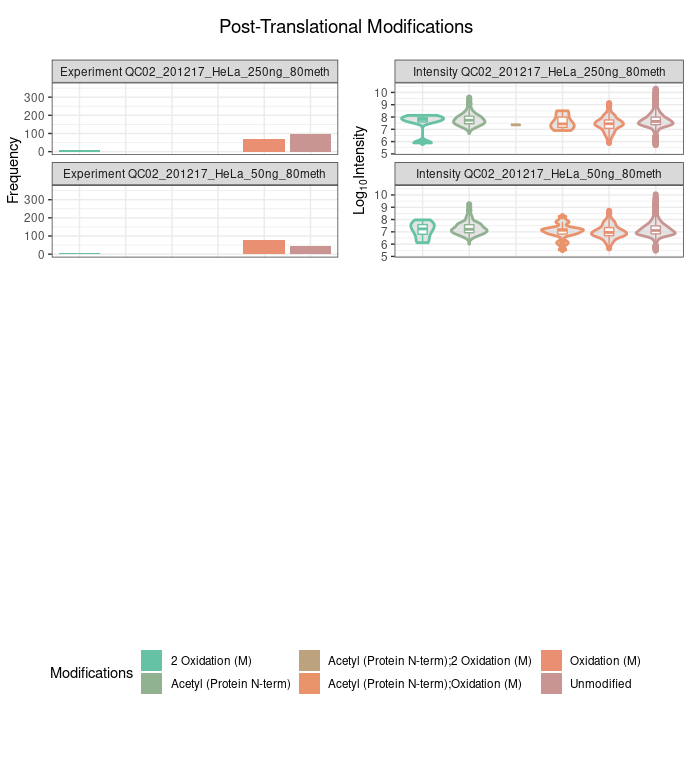
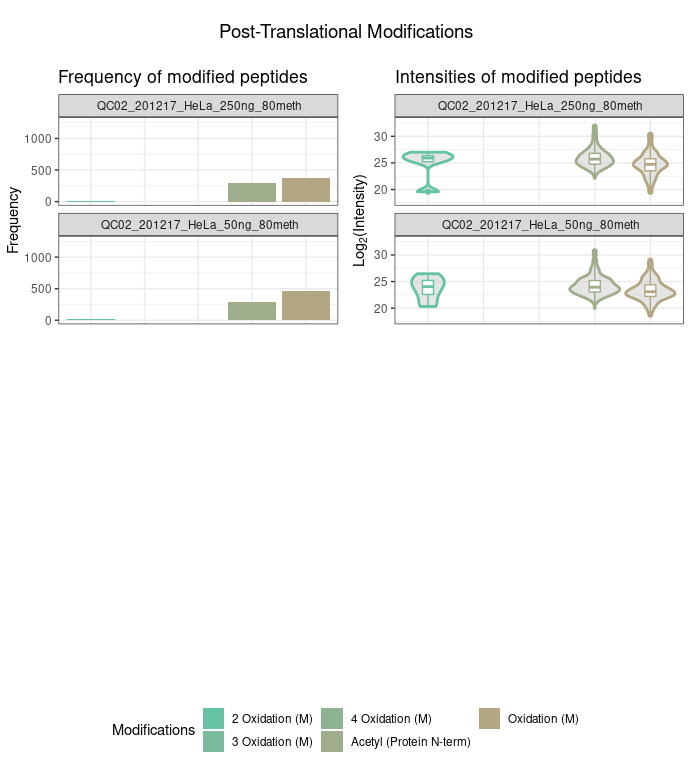
uptades finished

diff --git a/README.md b/README.md
@@ -144,8 +144,9 @@ PlotIntensity(proteinGroups, split_violin_intensity = TRUE, intensity_type = 'LF
 
 ``` r
 PlotPCA(proteinGroups, intensity_type = 'Intensity', palette = 'Set2')
-#> Only one sample was analyzed, PCA can not be applied
 ```
+
+<img src="man/figures/README-PlotPCA-1.png" width="100%" />
 
 ``` r
 PlotCombinedDynamicRange(proteinGroups, show_shade = TRUE, percent_proteins = 0.79)
@@ -195,7 +196,7 @@ PlotAcquisitionCycle(msScans)
 <img src="man/figures/README-PlotAcquisition-1.png" width="100%" /><img src="man/figures/README-PlotAcquisition-2.png" width="100%" />
 
 ``` r
-PlotPTM(modificationSpecificPeptides, peptides_modified = 3)
+PlotPTM(modificationSpecificPeptides, peptides_modified = 1, plot_unmodified_peptides = FALSE)
 ```
 
 <img src="man/figures/README-PTM-1.png" width="100%" /><img src="man/figures/README-PTM-2.png" width="100%" />
